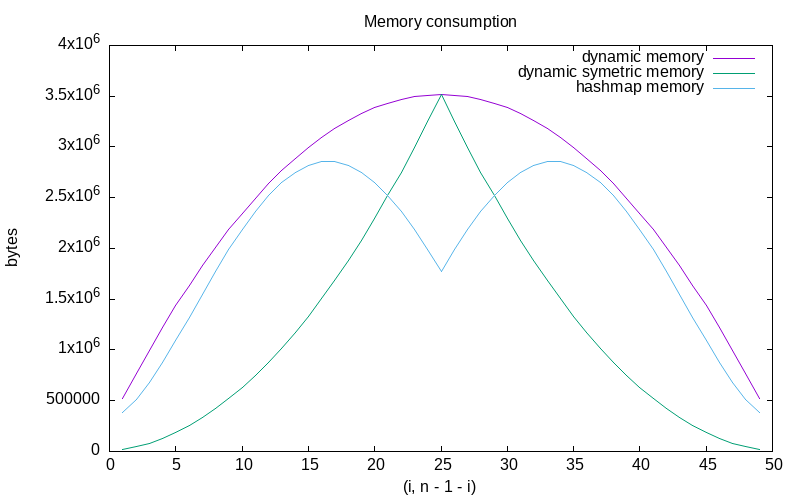
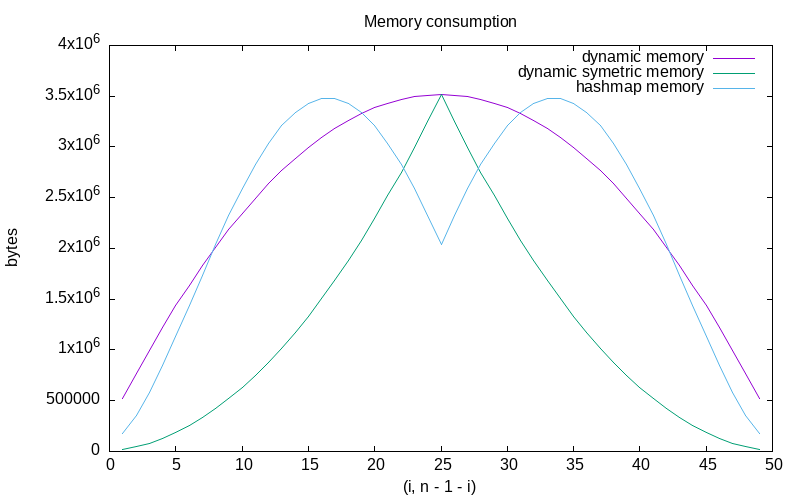
tests on hashmap

diff --git a/TP2/tablet.c b/TP2/tablet.c
@@ -183,9 +183,6 @@ tablet_t get_symetric_tablet_dimension(tablet_t tablet)
       j = tablet.point.i;
       m = tablet.n;
       n = tablet.m;
-
-      i = MIN(i, tablet.n - 1 - i);
-      j = MIN(j, tablet.m - 1 - j);
    }
    else
    {
@@ -361,40 +358,13 @@ void print_tablet(tablet_t tablet)
    }
 }
 
-/*
-unsigned long hash_tablet(int m, int n)
-{
-   return ((m * BASE) % TABLE_SIZE * BASE + n) % TABLE_SIZE;
-}*/
-
-#define TABLE_1 4093
-#define BASE_1 4091
-
-#define TABLE_2 16411
-#define BASE_2 16381
-
-#define TABLE_3 32771
-#define BASE_3 32759
-
-#ifndef TABLE_SIZE
-#define TABLE_SIZE TABLE_3
-#endif
-
-unsigned int hash_tablet(tablet_t tablet)
-{
-   int hash = (tablet.m * BASE_1 + tablet.n) % TABLE_SIZE;
-   hash = (hash * BASE_2 + tablet.point.i) % TABLE_SIZE;
-   hash = (hash * BASE_3 + tablet.point.j) % TABLE_SIZE;
-   return hash;
-}
-
 int calculate_configuration_hash_init(tablet_t tablet)
 {
-   memory_used += sizeof(node_t *) * (TABLE_SIZE + 1);
-   node_t *hashmap[TABLE_SIZE + 1];
-   memset(hashmap, 0, (TABLE_SIZE + 1) * sizeof(node_t *));
+   memory_used += sizeof(node_t *) * (tablet.m * tablet.n + 1);
+   node_t *hashmap[tablet.m * tablet.n + 1];
+   memset(hashmap, 0, (tablet.m * tablet.n + 1) * sizeof(node_t *));
    int res = calculate_configuration_hash(tablet, hashmap);
-   for (int i = 0; i < TABLE_SIZE + 1; i++)
+   for (int i = 0; i < tablet.m * tablet.n + 1; i++)
    {
       if (hashmap[i] != NULL)
       {
@@ -412,6 +382,11 @@ int calculate_configuration_hash_init(tablet_t tablet)
    return res;
 }
 
+int equals(tablet_t tablet1, tablet_t tablet2)
+{
+   return tablet1.m == tablet2.m && tablet1.n == tablet2.n && tablet1.point.i == tablet2.point.i && tablet1.point.j == tablet2.point.j;
+}
+
 int calculate_configuration_hash(tablet_t tablet, node_t *hashmap[])
 {
    if (tablet.m == 1 && tablet.n == 1)
@@ -420,11 +395,11 @@ int calculate_configuration_hash(tablet_t tablet, node_t *hashmap[])
    }
 
    tablet_t symetric_dimensions = get_symetric_tablet_dimension(tablet);
-   unsigned int hash = hash_tablet(symetric_dimensions);
+   int hash = symetric_dimensions.m * symetric_dimensions.n;
    node_t *linked_list = hashmap[hash];
    while (linked_list != NULL)
    {
-      if (linked_list->point.i == symetric_dimensions.point.i && linked_list->point.j == symetric_dimensions.point.j)
+      if (equals(linked_list->tablet, symetric_dimensions))
       {
          return linked_list->v;
       }
@@ -442,21 +417,19 @@ int calculate_configuration_hash(tablet_t tablet, node_t *hashmap[])
    }
    int max = calculate_max(configurations_res, tablet.m - 1 + tablet.n - 1);
 
-   if (hashmap[hash_tablet(symetric_dimensions)] == NULL)
+   if (hashmap[hash] == NULL)
    {
       node_t *new_list = malloc(sizeof(node_t));
-      new_list->point.i = symetric_dimensions.point.i;
-      new_list->point.j = symetric_dimensions.point.j;
+      new_list->tablet = symetric_dimensions;
       new_list->v = max;
       new_list->next = NULL;
       hashmap[hash] = new_list;
    }
    else
    {
-
       while (linked_list != NULL)
       {
-         if (linked_list->point.i == symetric_dimensions.point.i && linked_list->point.j == symetric_dimensions.point.j)
+         if (equals(linked_list->tablet, symetric_dimensions))
          {
             return linked_list->v;
          }
@@ -464,8 +437,7 @@ int calculate_configuration_hash(tablet_t tablet, node_t *hashmap[])
       }
       node_t *new_first = malloc(sizeof(node_t));
       new_first->v = max;
-      new_first->point.i = symetric_dimensions.point.i;
-      new_first->point.j = symetric_dimensions.point.j;
+      new_first->tablet = symetric_dimensions;
       new_first->next = hashmap[hash];
       hashmap[hash] = new_first;
    }

diff --git a/TP2/experiments.c b/TP2/experiments.c
@@ -59,7 +59,7 @@ void generate_experimentations()
       sprintf(buf, "%d %lf %lf %lf\n", tablet.point.i, cpu_time_used_dynamic, cpu_time_used_dynamic_symetric, cpu_time_used_hashmap);
       fwrite(buf, strlen(buf), 1, time_file);
 
-      printf("(%d, %d)\n", i, tablet.m - 1 - i);
+      printf("(%d, %d)\nCPU: %.2lf, %.2lf, %.2lf\nMemory: %d %d %d\n\n", i, tablet.m - 1 - i, cpu_time_used_dynamic, cpu_time_used_dynamic_symetric, cpu_time_used_hashmap, dynamic_memory_used, dynamic_symetric_memory_used, hashmap_memory_used);
    }
    fclose(memory_file);
    fclose(time_file);

diff --git a/TP2/tablet.h b/TP2/tablet.h
@@ -22,7 +22,7 @@ typedef struct
 struct node_s
 {
     int16_t v;
-    point_t point;
+    tablet_t tablet;
     struct node_s *next;
 };
 typedef struct node_s node_t;
